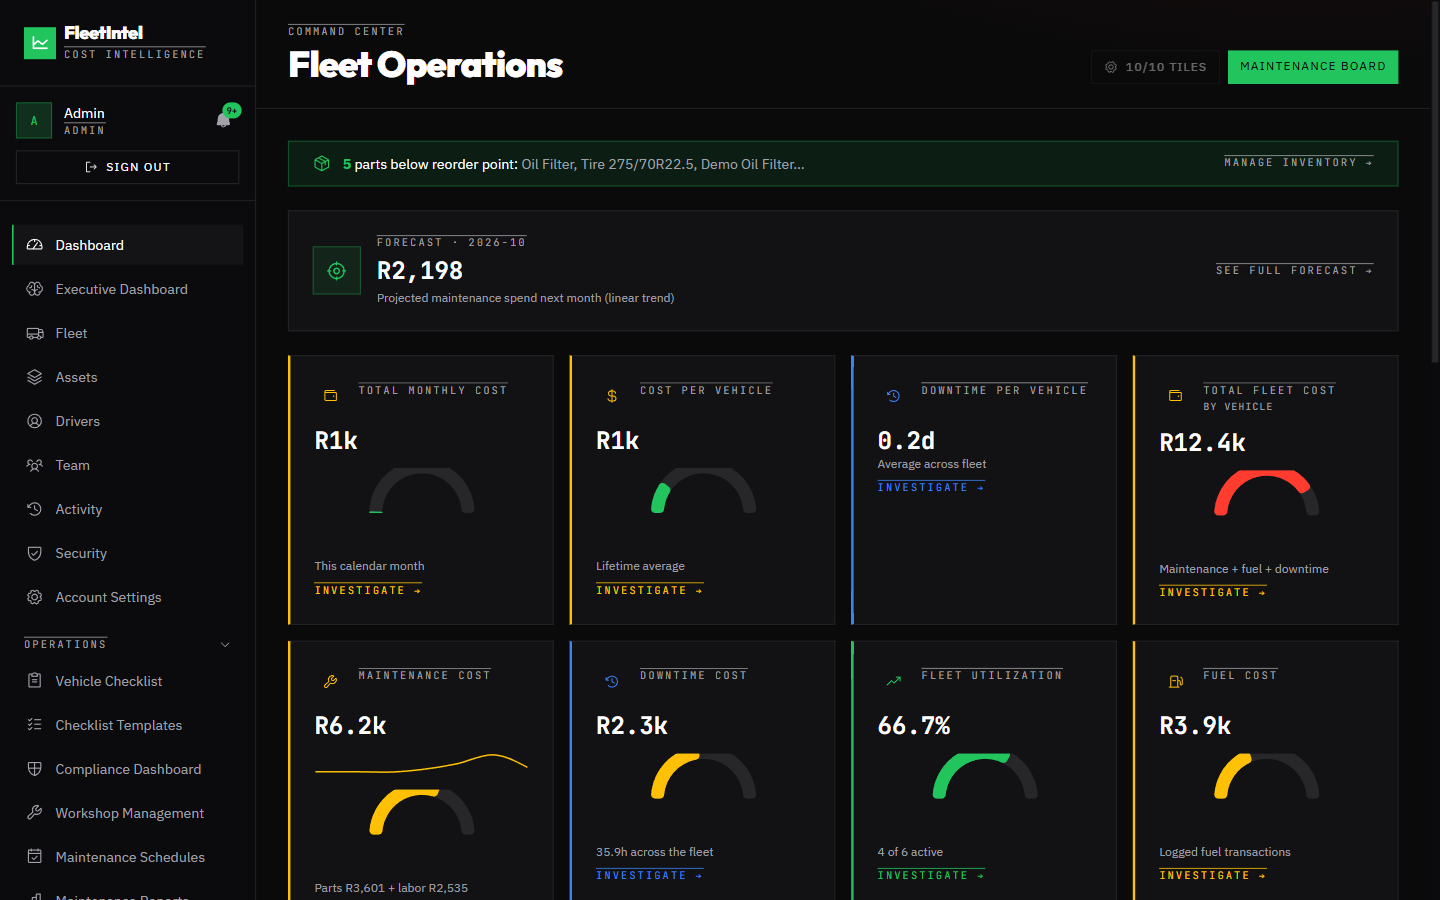
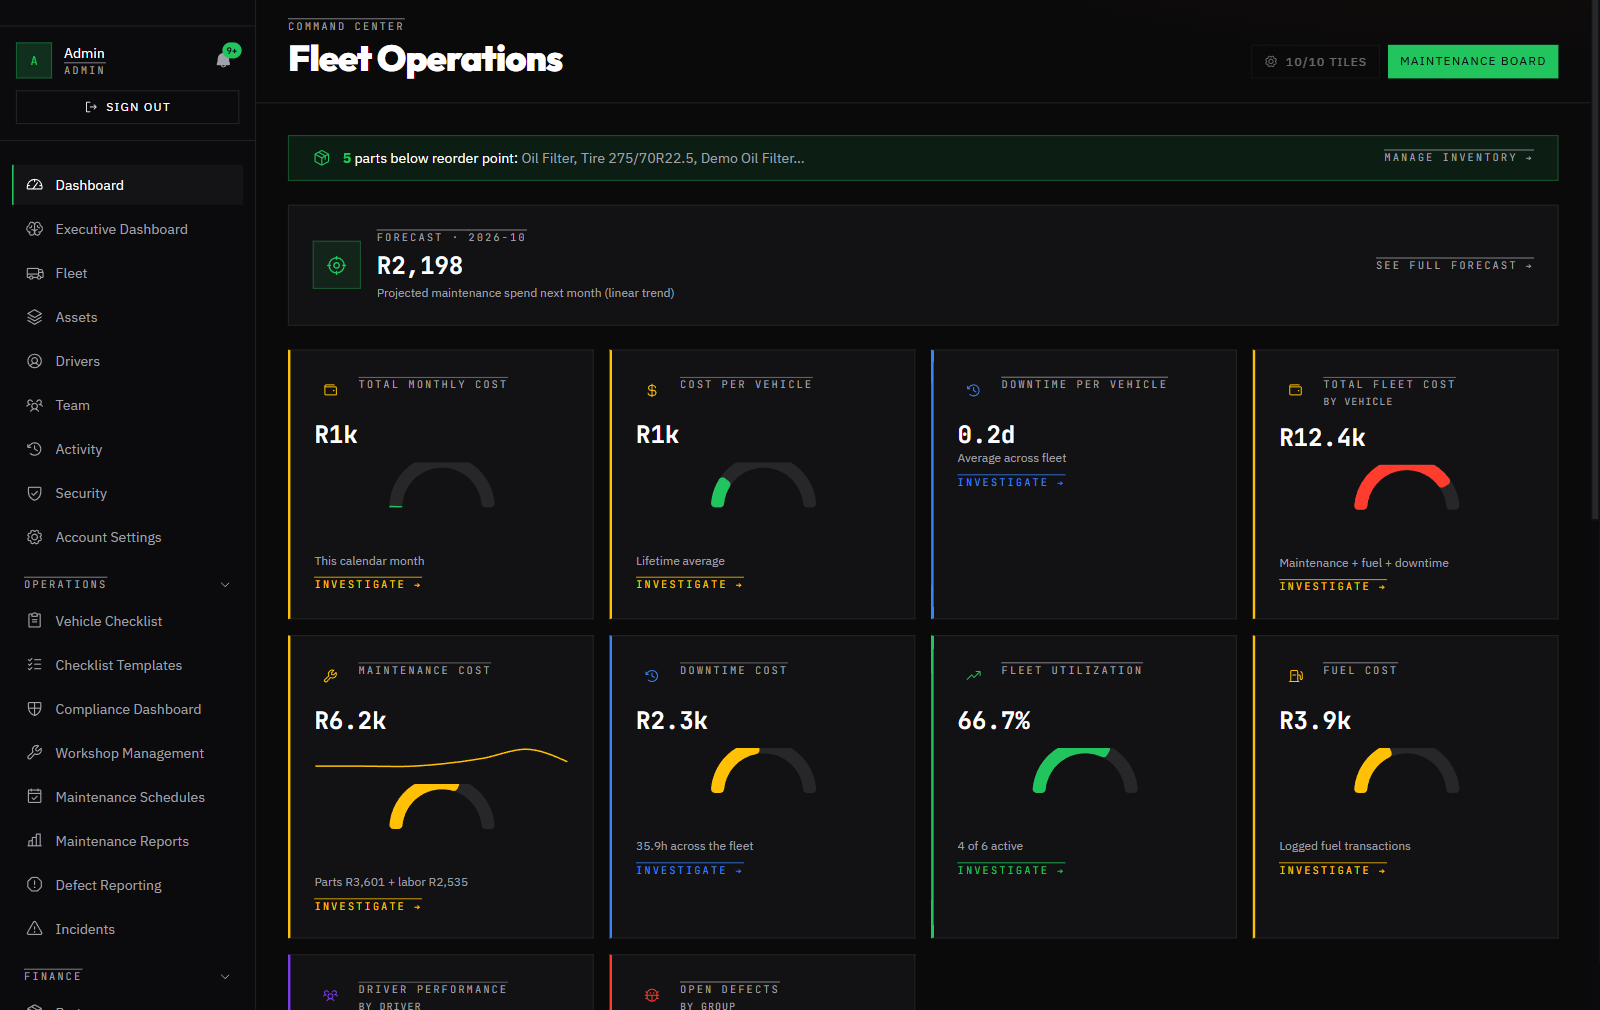
Give the Dashboard section a real headline and a bigger, current screenshot
Copy direction from the user: lead with the word "Dashboard" and the
one differentiator a screenshot alone doesn't communicate -- per-user
KPI configuration (a real shipped feature: GET/PUT /api/users/me/prefs,
persists cross-device). Showcase.jsx already existed as "the dashboard
screenshot gets its own section" (built earlier this session instead
of the rejected dimmed-hero-background treatment), so this updates its
copy and swaps its image rather than adding a redundant section.

dashboard.png replaced with a fresh, larger capture of the real
Fleet Operations dashboard (logged in live, credentials provided by
the user) -- includes the sidebar and the "10/10 TILES" configure
badge, which is direct visual proof of the copy's claim rather than
just an illustration of it. The old dashboard.png was the same
screenshot that used to sit in the boxed Hero before the hero became
a full-bleed animated graphic; it had been sitting unreferenced in
public/assets/ since that change. Cropped out the top "Live Alerts"
ticker (1 critical / 25 warnings) -- real demo data, but reads as
"this product has a lot of unresolved problems" rather than
supporting the site's own "one number your team can trust" pitch.

Also noted, not fixed: the login page's own "Demo credentials" hint
text (dphiser87@gmail.com / admin123) is stale -- that password no
longer works, confirmed via a live login attempt that returned
"Invalid credentials" before the user provided the current one.
[…]

diff --git a/marketing/src/components/Showcase.jsx b/marketing/src/components/Showcase.jsx
@@ -1,22 +1,29 @@
 import Reveal from "./Reveal";
 
-// The Executive Dashboard screenshot, given real estate as its own section instead of a dimmed
-// hero background -- full visible, speaks directly to the decision-maker audience.
+// Dashboard.png (the screenshot that used to sit in the old boxed Hero, before the hero became a
+// full-bleed animated graphic) finds its home here -- its own section, full visible, given real
+// estate to speak directly to the decision-maker audience. Copy direction 2026-09-05: lead with the
+// word "Dashboard" and the one differentiator that isn't obvious from a screenshot alone --
+// per-user KPI configuration -- rather than restating what the image already shows.
 export default function Showcase() {
   return (
     <section className="border-b" style={{ borderColor: "var(--color-border)" }}>
       <Reveal className="max-w-6xl mx-auto px-6 py-20 md:py-24">
         <div className="eyebrow mb-3">See it in action</div>
-        <h2 className="font-display font-bold text-3xl md:text-4xl tracking-tight max-w-xl mb-10">
-          The view your executives actually check.
+        <h2 className="font-display font-bold text-3xl md:text-4xl tracking-tight max-w-xl mb-4">
+          Dashboard.
         </h2>
+        <p className="text-lg leading-relaxed max-w-xl mb-10" style={{ color: "var(--color-muted)" }}>
+          Every KPI tile can be set, configured, and rearranged. Each user's layout is theirs alone,
+          and stays that way across every device they log in from.
+        </p>
         <div
           className="rounded-xl border overflow-hidden"
           style={{ borderColor: "var(--color-border)", background: "var(--color-surface)" }}
         >
           <img
-            src="/assets/executive-dashboard-overview.png"
-            alt="FleetIntel's Executive Dashboard: KPI tiles, AI cost insights, and a monthly fleet cost breakdown chart"
+            src="/assets/dashboard.png"
+            alt="FleetIntel's KPI dashboard, showing real cost, downtime, and fuel figures"
             className="w-full h-auto"
           />
         </div>
